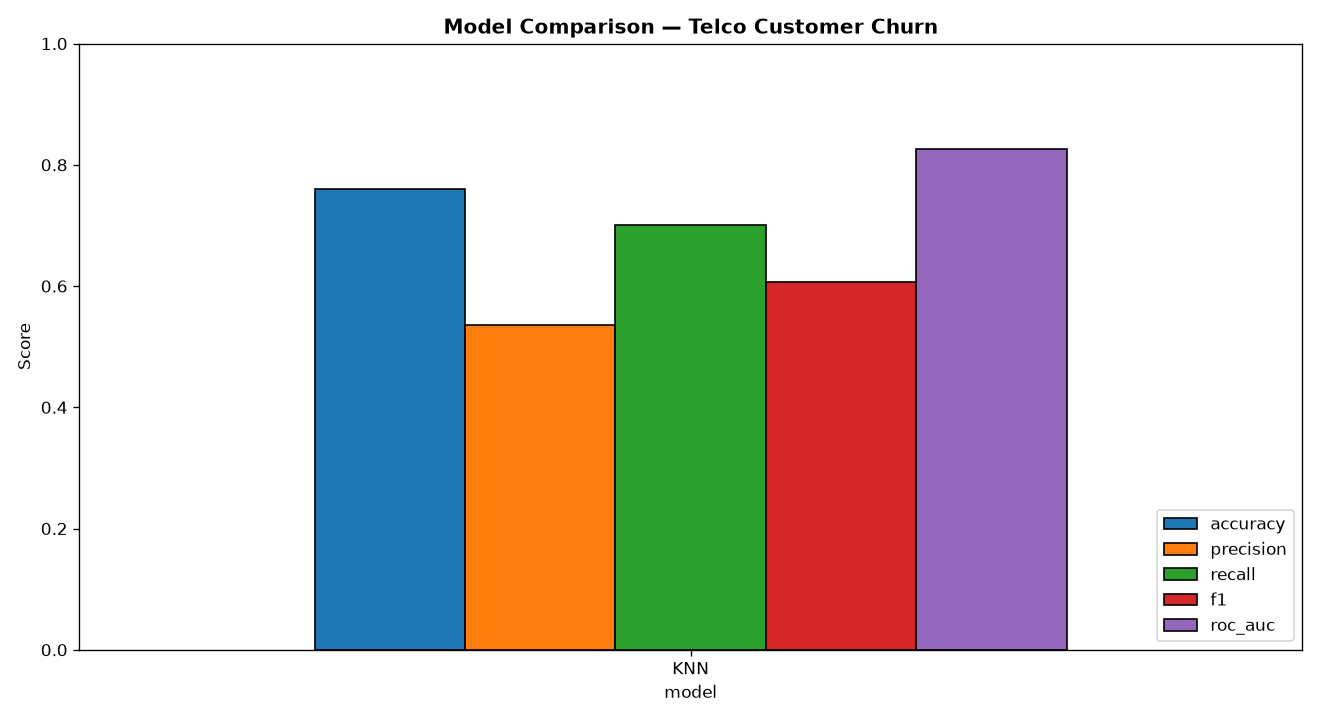
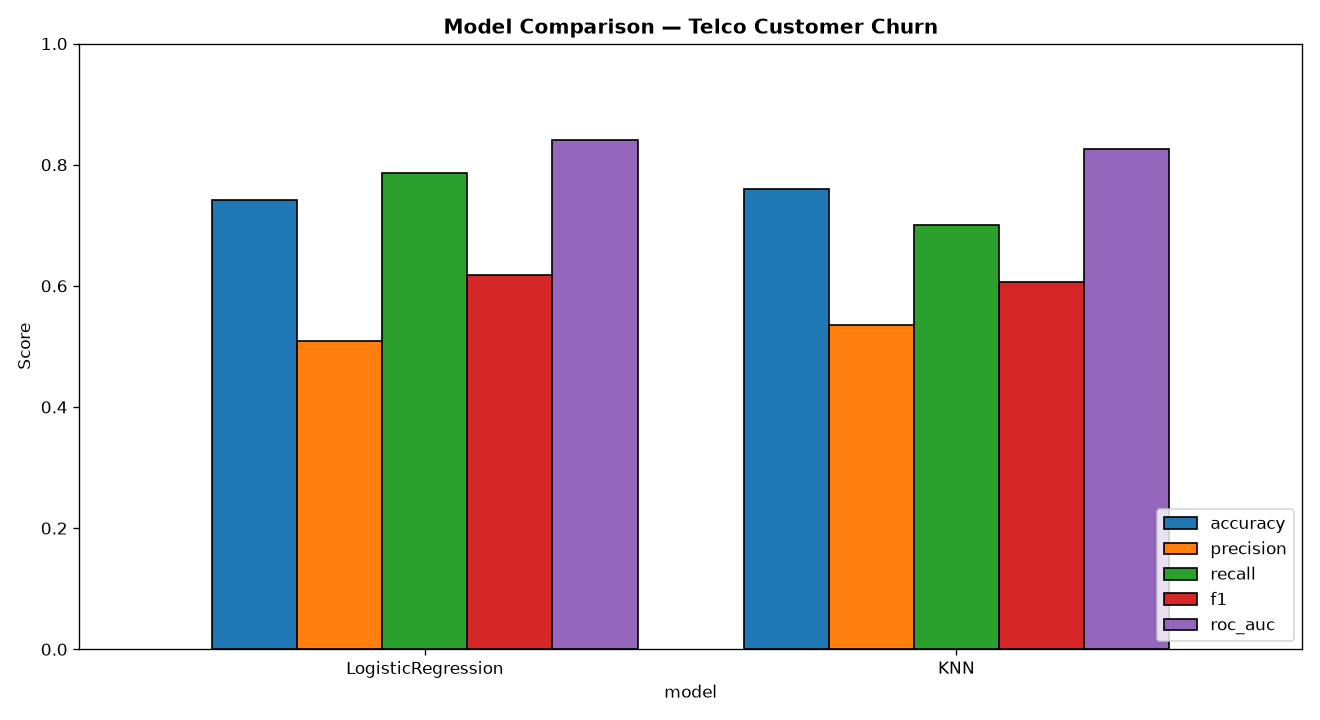
Refactor code structure for improved readability and maintainability

diff --git a/README.md b/README.md
@@ -41,8 +41,8 @@ TelcoChurn/
 │   └── train_logistic_regression.py
 ├── member3_random_forest/
 │   └── train_random_forest.py
-├── member4_gradient_boosting/
-│   └── train_gradient_boosting.py
+├── member4_decision_tree/
+│   └── train_decision_tree.py
 ├── results/
 │   ├── compare_models.py          # STEP 3 — pick best model by F1
 │   ├── eda/                       # charts for the report
@@ -64,9 +64,9 @@ python shared/preprocessing.py
 
 # 3. Train each model (any order after step 2)
 python member1_KNN_baseline/KNN.py
-python member2_logistic_regression/train_logistic_regression.py
+python member2_logistic_regression/LogisticRegression.py
 python member3_random_forest/train_random_forest.py
-python member4_gradient_boosting/train_gradient_boosting.py
+python member4_decision_tree/train_decision_tree.py
 
 # 4. Compare models and promote the winner
 python results/compare_models.py
